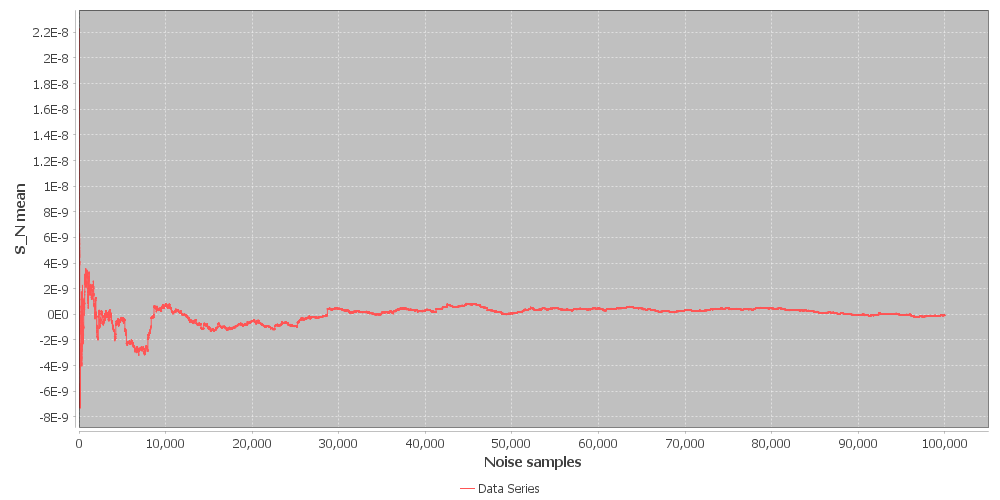
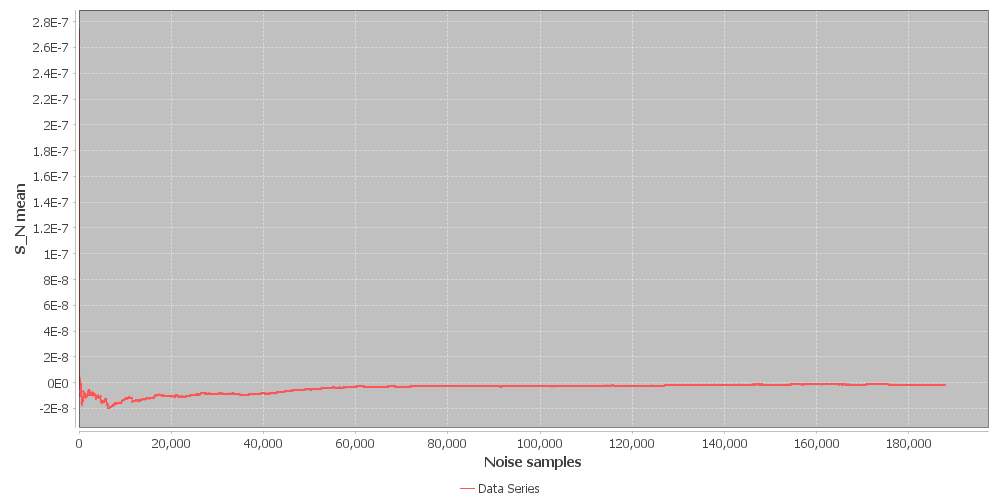
double no SAT criterion

diff --git a/NBLSolver.java b/NBLSolver.java
@@ -15,6 +15,7 @@ public class NBLSolver {
    private HashMap<Integer, List<Double>> noisesByClause;
    private Random random;
    private String fileName;
+   private Utilities utils;
 
    public NBLSolver(File file) {
       try (BufferedReader br = new BufferedReader(new FileReader(file))) {
@@ -126,25 +127,40 @@ public class NBLSolver {
    //-- CHECKER --
 
    public boolean check() {
+      utils = new Utilities();
       boolean satifiability = true;
       double S_N = 0.0;
       List<Double> meanList = new ArrayList<>();
 
-      int totalSample = 1000000;
-      int step = 10;
+      int totalSample = 100000000;
+      int minSample = 100000;
 
       for (int i = 1; i <= totalSample; i++) {
          random = new Random();
          double tau = constructHyperspace();
          double sigma = constructInstanceNBL();
          S_N += (tau * sigma);
-         double mean = S_N / i;
-         if (i % step == 0) {
-            meanList.add(mean);
-         }
+         double meanCur = S_N / i;
+         meanList.add(meanCur);
+
+         if (i > minSample) {
+            int n = 5;
+            
+            // int numMean = meanList.size();
+            // List<Double> lastFive = meanList.subList(numMean - 5, numMean);
+
+            if (utils.checkStop(meanList, n)) {
+                System.out.println(meanCur);
+                System.out.println(i);
+                break;
+            }
+
+
+        }
       }
 
-      new Chart(meanList, fileName);
+      int step = 1;
+      new Chart(meanList, fileName, step);
       return satifiability;
    }
 

diff --git a/Utilities.java b/Utilities.java
@@ -1,0 +1,44 @@
+import java.math.BigDecimal;
+import java.util.List;
+
+public class Utilities {
+   
+
+    public Utilities() {
+    }
+
+    public boolean checkStop(List<Double> meanList, int n) {
+        double delta = 0.0;
+        // for (int i = 1; i < meanList.size(); i++) {
+        //     double meanPre = Math.abs(meanList.get(i - 1));
+        //     double meanCur = Math.abs(meanList.get(i));
+        //     delta += Math.abs(meanPre - meanCur);
+        // }
+        double meanTotal = Math.abs(getMean(meanList));
+        double meanCur = Math.abs(meanList.get(meanList.size() - 1));
+        delta = Math.abs(meanTotal - meanCur);
+        // No change in first n significant digits
+        if (getLeadingZero(delta) - getLeadingZero(meanCur) >= n) {
+            return true;
+        }
+        
+        return false;
+    }
+
+    private int getLeadingZero(double value) {
+        String strValue = Double.toString(value);
+        int numLeadingZeros = new BigDecimal(strValue)
+            .scale() - strValue.indexOf('.') - 1;
+        return numLeadingZeros;
+    }    
+
+    private double getMean(List<Double> meanList) {        
+        // Calculate mean of all mean value
+        double sum = 0.0;
+        int numMean = meanList.size();
+        for (int i = 0; i < numMean; i++) {
+           sum += meanList.get(i);
+        }
+        return (sum / numMean);
+}
+}

diff --git a/Chart.java b/Chart.java
@@ -13,20 +13,23 @@ import org.jfree.data.xy.XYSeriesCollection;
 public class Chart {
    private final List<Double> meanList;
    private final String fileName;
+   private final int step;
    private XYSeries series;
    private XYSeriesCollection dataset;
    private JFreeChart chart;
 
-   public Chart(List<Double> meanList, String fileName) {
+   public Chart(List<Double> meanList, String fileName, int step) {
       this.meanList = meanList;
       this.fileName = fileName;
+      this.step = step;
       series = new XYSeries("Data Series");
       draw();
    }
    
    private void draw() {
-      for (double mean_value : meanList) {
-         series.add(meanList.indexOf(mean_value), mean_value);
+      for (int i = 0; i < meanList.size(); i += step) {
+         double mean_value = meanList.get(i);
+         series.add(i, mean_value);
       }
       dataset = new XYSeriesCollection(series);
       chart = ChartFactory.createXYLineChart(
